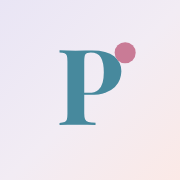
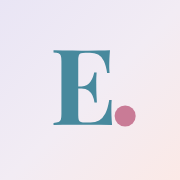
Renombrar la app a Encuadre
PsicoFinance sonaba a software de contabilidad, y la app es sobre todo una
agenda de pacientes. En psicoterapia "el encuadre" es el marco del tratamiento
—días, horarios, honorarios, duración, política de ausencias— que es exactamente
lo que la app organiza. Es el término que cualquier psi reconoce sin que haya
que explicarlo.

El cambio toca el título, el manifest, el ícono, la marca del encabezado, el
nombre del archivo de respaldo y el identificador de los archivos .ics.

Lo que más riesgo tenía era la clave de localStorage: renombrar la app no puede
borrarle los datos a quien ya la venía usando. Si no hay nada bajo la clave
actual se leen las anteriores, y la vieja no se borra, queda como respaldo,
porque a partir del primer guardado la app escribe siempre en la nueva. Seis
tests cubren ese camino, incluida la prioridad de la clave nueva sobre la vieja
y que unos datos viejos corruptos no impidan arrancar.

El ícono pasa a ser la E en Playfair Display con el punto al pie, igual que la
marca "Encuadre." del encabezado, manteniendo el degradado y los colores.

137 tests. Verificado en el navegador sembrando la clave vieja antes de que la
app arranque: los pacientes aparecen, un cambio real de datos se escribe bajo
encuadre:data y la clave anterior queda intacta.

Claude-Session: https://claude.ai/code/session_01C9zdYzzWhbrAokoA68W1So

Changed region(s): [[0.4167, 0.2222, 0.7778, 0.7222], [0.2778, 0.2778, 0.3889, 0.6944], [0.3889, 0.2778, 0.4167, 0.3056]]

diff --git a/src/lib/storage.migration.test.ts b/src/lib/storage.migration.test.ts
@@ -1,0 +1,70 @@
+import { beforeEach, describe, expect, it } from 'vitest';
+import { loadData, saveData, STORAGE_KEY } from './storage';
+
+const LEGACY_KEY = 'psicofinance:data';
+
+/** localStorage mínimo en memoria: los tests corren en Node, sin navegador. */
+function installFakeStorage() {
+  const store = new Map<string, string>();
+  const fake = {
+    getItem: (k: string) => store.get(k) ?? null,
+    setItem: (k: string, v: string) => void store.set(k, v),
+    removeItem: (k: string) => void store.delete(k),
+    clear: () => store.clear(),
+  };
+  (globalThis as unknown as { localStorage: typeof fake }).localStorage = fake;
+  return store;
+}
+
+const datosViejos = JSON.stringify({
+  version: 1,
+  patients: [{ id: 'p1', name: 'Paciente de antes', defaultFee: 3500000 }],
+  sessions: [{ id: 's1', patientId: 'p1', date: '2026-03-10', time: '10:00', status: 'realizada', fee: 3500000 }],
+  payments: [{ id: 'y1', patientId: 'p1', date: '2026-03-10', amount: 3500000 }],
+  settings: { currency: 'US$' },
+});
+
+describe('cambio de nombre de la app', () => {
+  let store: Map<string, string>;
+  beforeEach(() => {
+    store = installFakeStorage();
+  });
+
+  it('rescata los datos guardados bajo el nombre viejo', () => {
+    store.set(LEGACY_KEY, datosViejos);
+    const data = loadData();
+    expect(data.patients).toHaveLength(1);
+    expect(data.patients[0]!.name).toBe('Paciente de antes');
+    expect(data.sessions).toHaveLength(1);
+    expect(data.payments).toHaveLength(1);
+    expect(data.settings.currency).toBe('US$');
+  });
+
+  it('el primer guardado los pasa a la clave nueva', () => {
+    store.set(LEGACY_KEY, datosViejos);
+    saveData(loadData());
+    expect(store.has(STORAGE_KEY)).toBe(true);
+    expect(JSON.parse(store.get(STORAGE_KEY)!).patients).toHaveLength(1);
+  });
+
+  it('no borra la clave vieja: queda como respaldo', () => {
+    store.set(LEGACY_KEY, datosViejos);
+    saveData(loadData());
+    expect(store.get(LEGACY_KEY)).toBe(datosViejos);
+  });
+
+  it('la clave nueva tiene prioridad sobre la vieja', () => {
+    store.set(LEGACY_KEY, datosViejos);
+    store.set(STORAGE_KEY, JSON.stringify({ version: 1, patients: [{ id: 'p2', name: 'Más reciente' }] }));
+    expect(loadData().patients[0]!.name).toBe('Más reciente');
+  });
+
+  it('sin datos de ningún tipo arranca vacía', () => {
+    expect(loadData().patients).toHaveLength(0);
+  });
+
+  it('datos viejos corruptos no rompen el arranque', () => {
+    store.set(LEGACY_KEY, '{roto');
+    expect(loadData().patients).toHaveLength(0);
+  });
+});

diff --git a/src/lib/storage.ts b/src/lib/storage.ts
@@ -2,7 +2,17 @@ import type { AppData, Frequency, Patient, PatientKind, Payment, Session, Settin
 import { PATIENT_COLORS } from './palette';
 import { isValidISODate, isValidTime } from './dates';
 
-export const STORAGE_KEY = 'psicofinance:data';
+export const STORAGE_KEY = 'encuadre:data';
+
+/**
+ * Claves que usó la app antes de llamarse Encuadre.
+ *
+ * Renombrar la app no puede borrarle los datos a quien ya la venía usando: si
+ * no aparece nada bajo la clave actual, se lee de las viejas. La clave vieja no
+ * se borra —queda como respaldo— porque a partir del primer guardado la app
+ * escribe siempre en la nueva.
+ */
+const LEGACY_KEYS = ['psicofinance:data'] as const;
 export const SCHEMA_VERSION = 1;
 
 export const DEFAULT_SETTINGS: Settings = {
@@ -168,9 +178,20 @@ function parseSettings(raw: Record<string, unknown>): Settings {
   };
 }
 
+/** Lee la clave actual y, si está vacía, las de versiones anteriores. */
+function readRaw(): string | null {
+  const current = localStorage.getItem(STORAGE_KEY);
+  if (current !== null) return current;
+  for (const key of LEGACY_KEYS) {
+    const legacy = localStorage.getItem(key);
+    if (legacy !== null) return legacy;
+  }
+  return null;
+}
+
 export function loadData(): AppData {
   try {
-    const raw = localStorage.getItem(STORAGE_KEY);
+    const raw = readRaw();
     if (!raw) return emptyData();
     return parseAppData(JSON.parse(raw));
   } catch {

diff --git a/index.html b/index.html
@@ -3,7 +3,7 @@
   <head>
     <meta charset="UTF-8" />
     <meta name="viewport" content="width=device-width, initial-scale=1.0" />
-    <meta name="description" content="Agenda y finanzas para consultorio psicologico" />
+    <meta name="description" content="Agenda, pacientes y honorarios para consultorio psicologico" />
     <meta name="theme-color" content="#eef2f7" />
     <link rel="icon" href="/favicon-48.png" sizes="48x48" />
     <!-- iOS no lee el manifest: necesita sus propias etiquetas para
@@ -11,9 +11,9 @@
     <link rel="apple-touch-icon" href="/apple-touch-icon.png" />
     <meta name="apple-mobile-web-app-capable" content="yes" />
     <meta name="apple-mobile-web-app-status-bar-style" content="default" />
-    <meta name="apple-mobile-web-app-title" content="PsicoFinance" />
+    <meta name="apple-mobile-web-app-title" content="Encuadre" />
     <meta name="mobile-web-app-capable" content="yes" />
-    <title>PsicoFinance</title>
+    <title>Encuadre</title>
   </head>
   <body>
     <div id="root"></div>

diff --git a/src/pages/Settings.tsx b/src/pages/Settings.tsx
@@ -19,7 +19,7 @@ export function SettingsPage() {
     const url = URL.createObjectURL(blob);
     const a = document.createElement('a');
     a.href = url;
-    a.download = `psicofinance-${today()}.json`;
+    a.download = `encuadre-${today()}.json`;
     a.click();
     URL.revokeObjectURL(url);
   }
@@ -35,7 +35,7 @@ export function SettingsPage() {
       dispatch({ type: 'data/replace', payload: parsed });
       setMessage({ text: 'Datos importados correctamente.', ok: true });
     } catch {
-      setMessage({ text: 'No se pudo leer el archivo. ¿Es una copia de PsicoFinance?', ok: false });
+      setMessage({ text: 'No se pudo leer el archivo. ¿Es una copia de Encuadre?', ok: false });
     } finally {
       if (fileRef.current) fileRef.current.value = '';
     }

diff --git a/vite.config.ts b/vite.config.ts
@@ -11,9 +11,9 @@ export default defineConfig({
       registerType: 'autoUpdate',
       includeAssets: ['apple-touch-icon.png', 'favicon-48.png', 'fonts/*.woff2'],
       manifest: {
-        name: 'PsicoFinance — agenda y finanzas',
-        short_name: 'PsicoFinance',
-        description: 'Agenda y finanzas para consultorio psicológico.',
+        name: 'Encuadre — agenda de pacientes',
+        short_name: 'Encuadre',
+        description: 'Agenda, pacientes y honorarios para consultorio psicológico.',
         lang: 'es',
         dir: 'ltr',
         start_url: '/',

diff --git a/src/lib/calendar.ts b/src/lib/calendar.ts
@@ -60,10 +60,10 @@ export function sessionToICS(session: Session, options: ICSOptions): string {
   const lines = [
     'BEGIN:VCALENDAR',
     'VERSION:2.0',
-    'PRODID:-//PsicoFinance//ES',
+    'PRODID:-//Encuadre//ES',
     'CALSCALE:GREGORIAN',
     'BEGIN:VEVENT',
-    `UID:${session.id}@psicofinance`,
+    `UID:${session.id}@encuadre`,
     `DTSTAMP:${toICSStamp(now)}`,
     `DTSTART:${toICSStamp(startDate)}`,
     `DTEND:${toICSStamp(endDate)}`,

diff --git a/src/pages/Dashboard.tsx b/src/pages/Dashboard.tsx
@@ -39,7 +39,7 @@ export function DashboardPage({ onGo }: { onGo: (page: 'agenda' | 'finanzas' | '
         </div>
         <Card>
           <Empty>
-            <strong>Bienvenida a PsicoFinance.</strong>
+            <strong>Bienvenida a Encuadre.</strong>
             <br />
             Para empezar, cargá tu primer paciente; después vas a poder agendar sesiones y registrar cobros.
             <br />

diff --git a/src/App.tsx b/src/App.tsx
@@ -66,7 +66,7 @@ export default function App() {
       <div className="app">
         <header className="topbar">
           <span className="brand">
-            Psico<em>Finance</em>
+            Encuadre<em>.</em>
           </span>
           <nav className="nav">
             {NAV.map((item) => (

diff --git a/src/types.ts b/src/types.ts
@@ -1,5 +1,5 @@
 /**
- * Modelo de datos de PsicoFinance.
+ * Modelo de datos de Encuadre.
  *
  * Dos decisiones de diseño que atraviesan todo el modelo:
  *

diff --git a/README.md b/README.md
@@ -98,6 +98,10 @@ el 0 de larga distancia y el 15 de celular (`src/lib/contact.ts`).
 **Borrar un paciente arrastra sus sesiones y pagos.** Dejarlos sueltos produciría ingresos
 fantasma en los reportes, imposibles de rastrear.
 
+**Renombrar la app no puede borrar datos.** Los datos guardados cuando se llamaba PsicoFinance se
+leen igual: si no hay nada bajo la clave actual, se buscan las anteriores, y la vieja queda sin
+borrar como respaldo (`src/lib/storage.ts`).
+
 **Al cerrar la pestaña solo se guarda si hay cambios propios sin escribir.** Sin esa condición,
 una pestaña que nunca tocó nada igual escribiría su copia al cerrarse y pisaría lo que guardó
 otra pestaña abierta en paralelo (`src/store/StoreContext.tsx`).
@@ -151,7 +155,7 @@ borra el historial**, así que conviene exportar una copia desde Ajustes cada ta
 ## Desarrollo
 
 ```bash
-npm test          # 131 tests unitarios
+npm test          # 137 tests unitarios
 npm run typecheck # TypeScript en modo strict
 npm run build
 ```
